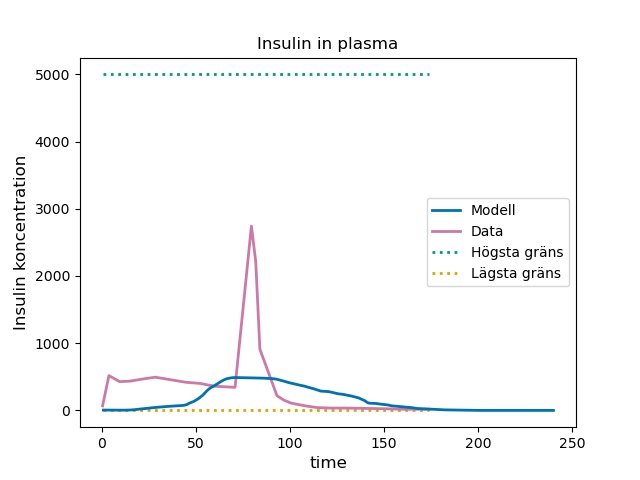
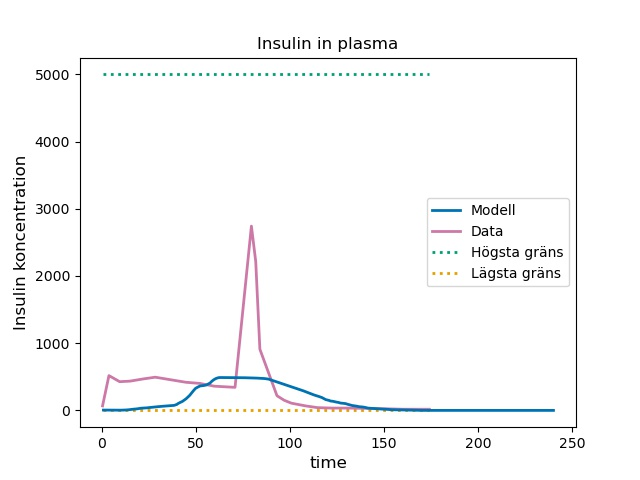
Work in progress

Changed region(s): [[0.4062, 0.7812, 0.7188, 0.875], [0.2812, 0.7812, 0.375, 0.8438], [0.1875, 0.8438, 0.2812, 0.875]]

diff --git a/optimering/week16_open_loop_optimering.py b/optimering/week16_open_loop_optimering.py
@@ -32,9 +32,10 @@ def open_loop(t,x,b):
     x[x < 0] = 0.0 
 
     # Concentrations in the model as input 
-    G, I, C, M, H = x 
+    G, I, C, M = x 
 
      # Startvärden
+    H= 600 # Intag glukos 
     L= 500 # Startvärde glukos i levern
 
     # Glucose plasma [1]
@@ -43,23 +44,20 @@ def open_loop(t,x,b):
     # Insulin plasma [2]
     dI = -k4*I*C + k3*G
 
-    # GLucose liver [3]
+    # GLucose liver [4]
     dC = -k4*I*C + L
 
-    # Glucose musle [4]
+    # Glucose musle [5]
     dM = k2*G - k5*M
 
-    # Glucose intake [5]
-    dH = -k1*H
-
-    return [dG, dI, dC, dM, dH]
+    return [dG, dI, dC, dM]
 
  
 
 def cost_function(b, yG_vec, yI_vec): 
 
     # Start concentration, timespan   
-    x0 = [60, 5, 34, 3, 70]  # G, I, C, M, H 
+    x0 = [60, 5, 34, 3]  # G, I, C, M 
     time_span_G = [tG_vec[0], tG_vec[-1]] 
     time_span_I = [tI_vec[0], tI_vec[-1]] 
     
@@ -76,7 +74,6 @@ def cost_function(b, yG_vec, yI_vec):
     I_model = sol_qual.y[1]
     C_model = sol_qual.y[2]
     M_model = sol_qual.y[3]
-    H_model = sol_qual.y[4]
 
     # Step 3: Extract G and I model concentrations at t-points tG_vec and tI_vec
     yG_model = sol_G.y[0] 
@@ -89,7 +86,6 @@ def cost_function(b, yG_vec, yI_vec):
     range_I = [0, 5000] #pM 
     range_C = [0, 100] # mmol 
     range_M = [0, 140] # mmol 
-    range_H = [0, 500] # mmol 
 
     if any(G_model) > np.max(range_G):
        squared_sum += 100
@@ -107,10 +103,7 @@ def cost_function(b, yG_vec, yI_vec):
        squared_sum += 100
     if any(M_model) < np.min(range_M):
         squared_sum += 100
-    if any(H_model) > np.max(range_M):
-       squared_sum += 100
-    if any(H_model) < np.min(range_M):
-        squared_sum += 100
+    
 
     # Step 5: Calculate cost-function  
     squared_sum = np.sum((yG_model - yG_vec))**2+np.sum((yI_model -  yI_vec)**2) 
@@ -120,7 +113,7 @@ def cost_function(b, yG_vec, yI_vec):
 ## Hypercube set up
 randSeed = 2 # random number of choice
 lhsmdu.setRandomSeed(randSeed) # Latin Hypercube Sampling with multi-dimensional uniformity
-start = np.array(lhsmdu.sample(5, 1)) # Latin Hypercube Sampling with multi-dimensional uniformity (parameters, samples)
+start = np.array(lhsmdu.sample(5, 4)) # Latin Hypercube Sampling with multi-dimensional uniformity (parameters, samples)
 
 para, samples = start.shape
 
@@ -148,20 +141,23 @@ for n in range(samples):
         minimum = (res.fun, res.x)
 
 # Hämta modellen
-    # Start concentration, timespan   
-    x0 = [60, 5, 34, 3, 70]  # G, I, C, M, H 
-    time_span_G = [tG_vec[0], tG_vec[-1]] 
-    time_span_I = [tI_vec[0], tI_vec[-1]] 
-    
+# Start concentration, timespan   
+x0 = [60, 5, 34, 3]  # G, I, C, M 
+time_span_G = [tG_vec[0], tG_vec[-1]] 
+time_span_I = [tI_vec[0], tI_vec[-1]] 
 
-    # Solve model
-    sol_qual = integrate.solve_ivp(open_loop, time_span_G, x0, method="LSODA", args=(minimum[1], ))
 
-    G_model = sol_qual.y[0]
-    I_model = sol_qual.y[1]
-    C_model = sol_qual.y[2]
-    M_model = sol_qual.y[3]
-    H_model = sol_qual.y[4]
+# Step 1: Solve ODE-system at points tG_vec
+sol_G = integrate.solve_ivp(open_loop, time_span_G, x0, method="LSODA", args=(minimum[1], ), t_eval=tG_vec) 
+sol_I = integrate.solve_ivp(open_loop, time_span_I, x0, method="LSODA", args=(minimum[1], ), t_eval=tI_vec) 
+
+sol_qual = integrate.solve_ivp(open_loop, time_span_G, x0, method="LSODA", args=(minimum[1], ))
+
+G_model = sol_qual.y[0]
+I_model = sol_qual.y[1]
+C_model = sol_qual.y[2]
+M_model = sol_qual.y[3]
+
 
 # Print some statistics  
 print("Optimal value found via Powells-method:") 
@@ -170,8 +166,6 @@ print("Value of cost-function")
 print(minimum[0]) 
 
 # Plot model, data and constrains
-# Time span for model
-time_span = np.linspace(tG_vec[0],tG_vec[-1], num=len(G_model))
 
 # Constrains glukos (G)
 xG_coordinates = [tG_vec[0],tG_vec[-1]]
@@ -193,10 +187,7 @@ xM_coordinates = [tG_vec[0],tG_vec[-1]]
 yM1_coordinates = [0,0]    # mmol (human)
 yM2_coordinates = [140,140]  # mmol (human)
 
- # Constrains glukos upptag (H)
-xH_coordinates = [tG_vec[0],tG_vec[-1]] 
-yH1_coordinates = [0,0]    
-yH2_coordinates = [500,500]  
+time_span = np.linspace()
 
 # plotta glukos
 lw = 2.0
@@ -204,7 +195,7 @@ plot1 = plt.figure(1)
 line1, = plt.plot(xG_coordinates, yG1_coordinates, linestyle=":", linewidth=lw, color=cb_palette1[1])
 line2, = plt.plot(xG_coordinates, yG2_coordinates, linestyle=":", linewidth=lw, color=cb_palette1[3])
 line3, = plt.plot(data_G['time'].values, data_G['conc'].values, label = 'Glukos', linestyle="-", linewidth=lw, color=cb_palette1[7])
-line4, = plt.plot(time_span, G_model, label = 'Glukos', linestyle="-", linewidth=lw, color=cb_palette1[5])
+line4, = plt.plot(data_G['time'].values, G_model, label = 'Glukos', linestyle="-", linewidth=lw, color=cb_palette1[5])
 plt.legend((line4, line3, line2, line1), ("Modell", "Data", "Högsta gräns","Lägsta gräns"))
 plt.xlabel("time", fontsize=12), plt.ylabel("Glukos koncentration", fontsize=12)
 plt.title("Glucose in plasma")
@@ -225,7 +216,7 @@ plot1 = plt.figure(2)
 line1, = plt.plot(xI_coordinates, yI1_coordinates, linestyle=":", linewidth=lw, color=cb_palette1[1])
 line2, = plt.plot(xI_coordinates, yI2_coordinates, linestyle=":", linewidth=lw, color=cb_palette1[3])
 line3, = plt.plot(data_I['time'].values, data_I['conc'].values, label = 'Insulin', linestyle="-", linewidth=lw, color=cb_palette1[7])
-line4, = plt.plot(time_span, I_model, label = 'Insulin', linestyle="-", linewidth=lw, color=cb_palette1[5])
+line4, = plt.plot(data_I['time'].values, I_model, label = 'Insulin', linestyle="-", linewidth=lw, color=cb_palette1[5])
 plt.legend((line4, line3, line2, line1), ("Modell", "Data", "Högsta gräns","Lägsta gräns"))
 plt.xlabel("time", fontsize=12), plt.ylabel("Insulin koncentration", fontsize=12)
 plt.title("Insulin in plasma")
@@ -245,7 +236,7 @@ lw = 2.0
 plot1 = plt.figure(3)
 line1, = plt.plot(xC_coordinates, yC1_coordinates, linestyle=":", linewidth=lw, color=cb_palette1[1])
 line2, = plt.plot(xC_coordinates, yC2_coordinates, linestyle=":", linewidth=lw, color=cb_palette1[3])
-line3, = plt.plot(time_span, C_model, label = 'Glukos i levern', linestyle="-", linewidth=lw, color=cb_palette1[5]) # Lägga till modellen
+line3, = plt.plot(data_G['time'].values, C_model, label = 'Glukos i levern', linestyle="-", linewidth=lw, color=cb_palette1[5]) # Lägga till modellen
 plt.legend((line3, line2, line1), ("Modell", "Högsta gräns", "Lägsta gräns"))
 plt.xlabel("time", fontsize=12), plt.ylabel("Glukos koncentration", fontsize=12)
 plt.title("Glukos i levern")
@@ -265,31 +256,10 @@ lw = 2.0
 plot1 = plt.figure(4)
 line1, = plt.plot(xM_coordinates, yM1_coordinates, linestyle=":", linewidth=lw, color=cb_palette1[1])
 line2, = plt.plot(xM_coordinates, yM2_coordinates, linestyle=":", linewidth=lw, color=cb_palette1[3])
-line3, = plt.plot(time_span, M_model, label = 'Glukos i muskeln', linestyle="-", linewidth=lw, color=cb_palette1[5]) # Lägga till modellen
+line3, = plt.plot(data_G['time'].values, M_model, label = 'Glukos i muskeln', linestyle="-", linewidth=lw, color=cb_palette1[5]) # Lägga till modellen
 plt.legend((line3, line2, line1), ("Modell", "Högsta gräns", "Lägsta gräns"))
 plt.xlabel("time", fontsize=12), plt.ylabel("Glukos koncentration", fontsize=12)
 plt.title("Glukos i muskeln")
-
-
-# Sparar figur i plot constrains, glukos i muskeln
-# Write the result to file
-path_result_dir = "optimering/Bilder/plot_week16_open_loop_model"
-# Check if directory exists
-if not os.path.isdir(path_result_dir):
-    os.mkdir(path_result_dir)  # Create a new directory if not existing
-path_fig = path_result_dir + "/plot_glukosmuskeln.jpg"
-print("path_fig = {}".format(path_fig))
-plt.savefig(path_fig)
-
-# plotta Glukos intag
-lw = 2.0
-plot1 = plt.figure(5)
-line1, = plt.plot(xH_coordinates, yH1_coordinates, linestyle=":", linewidth=lw, color=cb_palette1[1])
-line2, = plt.plot(xH_coordinates, yH2_coordinates, linestyle=":", linewidth=lw, color=cb_palette1[3])
-line3, = plt.plot(time_span, H_model, label = 'Glukos intag', linestyle="-", linewidth=lw, color=cb_palette1[5]) # Lägga till modellen
-plt.legend((line3, line2, line1), ("Modell", "Högsta gräns", "Lägsta gräns"))
-plt.xlabel("time", fontsize=12), plt.ylabel("Glukos koncentration", fontsize=12)
-plt.title("Glukos intag")
 plt.show()
 
 # Sparar figur i plot constrains, glukos i muskeln
@@ -298,6 +268,6 @@ path_result_dir = "optimering/Bilder/plot_week16_open_loop_model"
 # Check if directory exists
 if not os.path.isdir(path_result_dir):
     os.mkdir(path_result_dir)  # Create a new directory if not existing
-path_fig = path_result_dir + "/plot_glukos_intag.jpg"
+path_fig = path_result_dir + "/plot_glukosmuskeln.jpg"
 print("path_fig = {}".format(path_fig))
 plt.savefig(path_fig)
